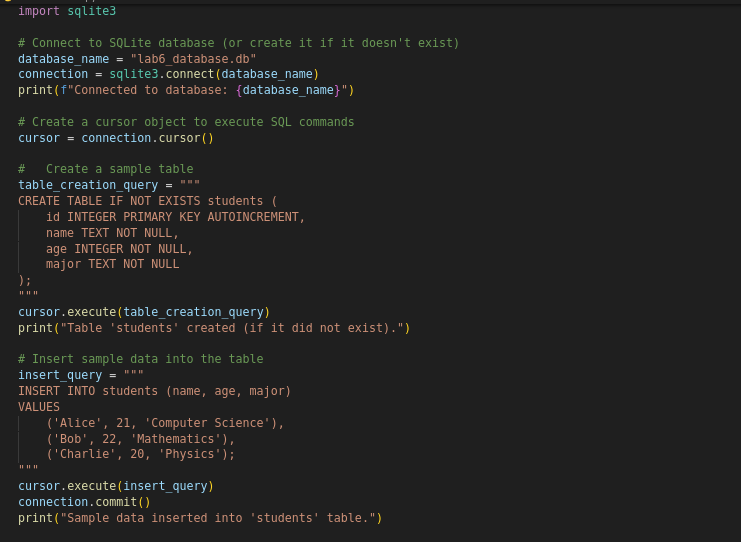
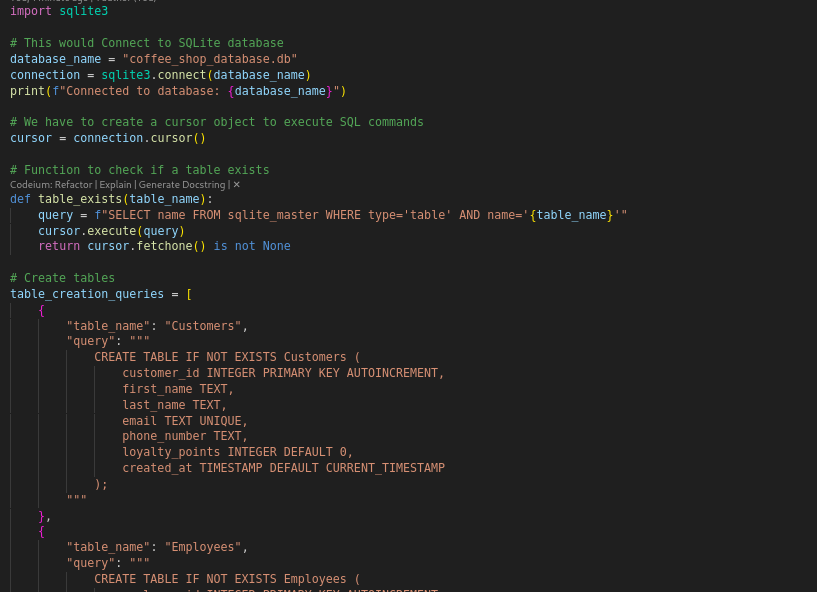
latest

diff --git a/src/database_lab.py b/src/database_lab.py
@@ -1,57 +1,176 @@
 import sqlite3
 
-# Connect to SQLite database (or create it if it doesn't exist)
-database_name = "lab6_database.db"
+# This would Connect to SQLite database
+database_name = "coffee_shop_database.db"
 connection = sqlite3.connect(database_name)
 print(f"Connected to database: {database_name}")
 
-# Create a cursor object to execute SQL commands
+# We have to create a cursor object to execute SQL commands
 cursor = connection.cursor()
 
-#   Create a sample table
-table_creation_query = """
-CREATE TABLE IF NOT EXISTS students (
-    id INTEGER PRIMARY KEY AUTOINCREMENT,
-    name TEXT NOT NULL,
-    age INTEGER NOT NULL,
-    major TEXT NOT NULL
-);
-"""
-cursor.execute(table_creation_query)
-print("Table 'students' created (if it did not exist).")
+# Function to check if a table exists
+def table_exists(table_name):
+    query = f"SELECT name FROM sqlite_master WHERE type='table' AND name='{table_name}'"
+    cursor.execute(query)
+    return cursor.fetchone() is not None
 
-# Insert sample data into the table
-insert_query = """
-INSERT INTO students (name, age, major)
-VALUES
-    ('Alice', 21, 'Computer Science'),
-    ('Bob', 22, 'Mathematics'),
-    ('Charlie', 20, 'Physics');
-"""
-cursor.execute(insert_query)
-connection.commit()
-print("Sample data inserted into 'students' table.")
+# Create tables
+table_creation_queries = [
+    {
+        "table_name": "Customers",
+        "query": """
+            CREATE TABLE IF NOT EXISTS Customers (
+                customer_id INTEGER PRIMARY KEY AUTOINCREMENT,
+                first_name TEXT,
+                last_name TEXT,
+                email TEXT UNIQUE,
+                phone_number TEXT,
+                loyalty_points INTEGER DEFAULT 0,
+                created_at TIMESTAMP DEFAULT CURRENT_TIMESTAMP
+            );
+        """
+    },
+    {
+        "table_name": "Employees",
+        "query": """
+            CREATE TABLE IF NOT EXISTS Employees (
+                employee_id INTEGER PRIMARY KEY AUTOINCREMENT,
+                first_name TEXT,
+                last_name TEXT,
+                position TEXT,
+                hire_date TIMESTAMP DEFAULT CURRENT_TIMESTAMP,
+                salary REAL,
+                email TEXT UNIQUE,
+                phone_number TEXT
+            );
+        """
+    },
+    {
+        "table_name": "Products",
+        "query": """
+            CREATE TABLE IF NOT EXISTS Products (
+                product_id INTEGER PRIMARY KEY AUTOINCREMENT,
+                name TEXT,
+                description TEXT,
+                price REAL,
+                category TEXT,
+                is_available INTEGER DEFAULT 1
+            );
+        """
+    },
+    {
+        "table_name": "Orders",
+        "query": """
+            CREATE TABLE IF NOT EXISTS Orders (
+                order_id INTEGER PRIMARY KEY AUTOINCREMENT,
+                customer_id INTEGER,
+                order_date TIMESTAMP DEFAULT CURRENT_TIMESTAMP,
+                total_amount REAL,
+                status TEXT,
+                FOREIGN KEY (customer_id) REFERENCES Customers(customer_id)
+            );
+        """
+    },
+    {
+        "table_name": "Order_Items",
+        "query": """
+            CREATE TABLE IF NOT EXISTS Order_Items (
+                order_item_id INTEGER PRIMARY KEY AUTOINCREMENT,
+                order_id INTEGER,
+                product_id INTEGER,
+                quantity INTEGER,
+                price REAL,
+                FOREIGN KEY (order_id) REFERENCES Orders(order_id),
+                FOREIGN KEY (product_id) REFERENCES Products(product_id)
+            );
+        """
+    },
+    {
+        "table_name": "Inventory",
+        "query": """
+            CREATE TABLE IF NOT EXISTS Inventory (
+                inventory_id INTEGER PRIMARY KEY AUTOINCREMENT,
+                product_name TEXT,
+                quantity INTEGER,
+                unit TEXT,
+                last_updated TIMESTAMP DEFAULT CURRENT_TIMESTAMP
+            );
+        """
+    },
+    {
+        "table_name": "Payments",
+        "query": """
+            CREATE TABLE IF NOT EXISTS Payments (
+                payment_id INTEGER PRIMARY KEY AUTOINCREMENT,
+                order_id INTEGER,
+                payment_method TEXT,
+                payment_amount REAL,
+                payment_date TIMESTAMP DEFAULT CURRENT_TIMESTAMP,
+                FOREIGN KEY (order_id) REFERENCES Orders(order_id)
+            );
+        """
+    },
+    {
+        "table_name": "Reviews",
+        "query": """
+            CREATE TABLE IF NOT EXISTS Reviews (
+                review_id INTEGER PRIMARY KEY AUTOINCREMENT,
+                customer_id INTEGER,
+                product_id INTEGER,
+                rating INTEGER,
+                review_text TEXT,
+                review_date TIMESTAMP DEFAULT CURRENT_TIMESTAMP,
+                FOREIGN KEY (customer_id) REFERENCES Customers(customer_id),
+                FOREIGN KEY (product_id) REFERENCES Products(product_id)
+            );
+        """
+    },
+    {
+        "table_name": "Shift_Schedules",
+        "query": """
+            CREATE TABLE IF NOT EXISTS Shift_Schedules (
+                schedule_id INTEGER PRIMARY KEY AUTOINCREMENT,
+                employee_id INTEGER,
+                shift_start TIMESTAMP,
+                shift_end TIMESTAMP,
+                FOREIGN KEY (employee_id) REFERENCES Employees(employee_id)
+            );
+        """
+    },
+    {
+        "table_name": "Promotions",
+        "query": """
+            CREATE TABLE IF NOT EXISTS Promotions (
+                promotion_id INTEGER PRIMARY KEY AUTOINCREMENT,
+                promotion_name TEXT,
+                discount_percentage REAL,
+                start_date TIMESTAMP,
+                end_date TIMESTAMP,
+                description TEXT
+            );
+        """
+    },
+    {
+        "table_name": "Product_Promotions",
+        "query": """
+            CREATE TABLE IF NOT EXISTS Product_Promotions (
+                product_id INTEGER,
+                promotion_id INTEGER,
+                PRIMARY KEY (product_id, promotion_id),
+                FOREIGN KEY (product_id) REFERENCES Products(product_id),
+                FOREIGN KEY (promotion_id) REFERENCES Promotions(promotion_id)
+            );
+        """
+    },
+]
 
-# Query the data
-select_query = "SELECT * FROM students;"
-cursor.execute(select_query)
-rows = cursor.fetchall()
-print("Data in 'students' table:")
-for row in rows:
-    print(row)
-
-# Update a record
-update_query = "UPDATE students SET major = 'Engineering' WHERE name = 'Charlie';"
-cursor.execute(update_query)
-connection.commit()
-print("Updated 'Charlie'\'s major to 'Engineering'.")
-
-# Query the updated data
-cursor.execute(select_query)
-rows = cursor.fetchall()
-print("Updated data in 'students' table:")
-for row in rows:
-    print(row)
+# A for loop to loop through the table creation queries and create the tables
+for table in table_creation_queries:
+    if not table_exists(table["table_name"]):
+        cursor.execute(table["query"])
+        print(f"Table '{table['table_name']}' created.")
+    else:
+        print(f"Table '{table['table_name']}' already exists.")
 
 # Close the connection
 connection.close()
